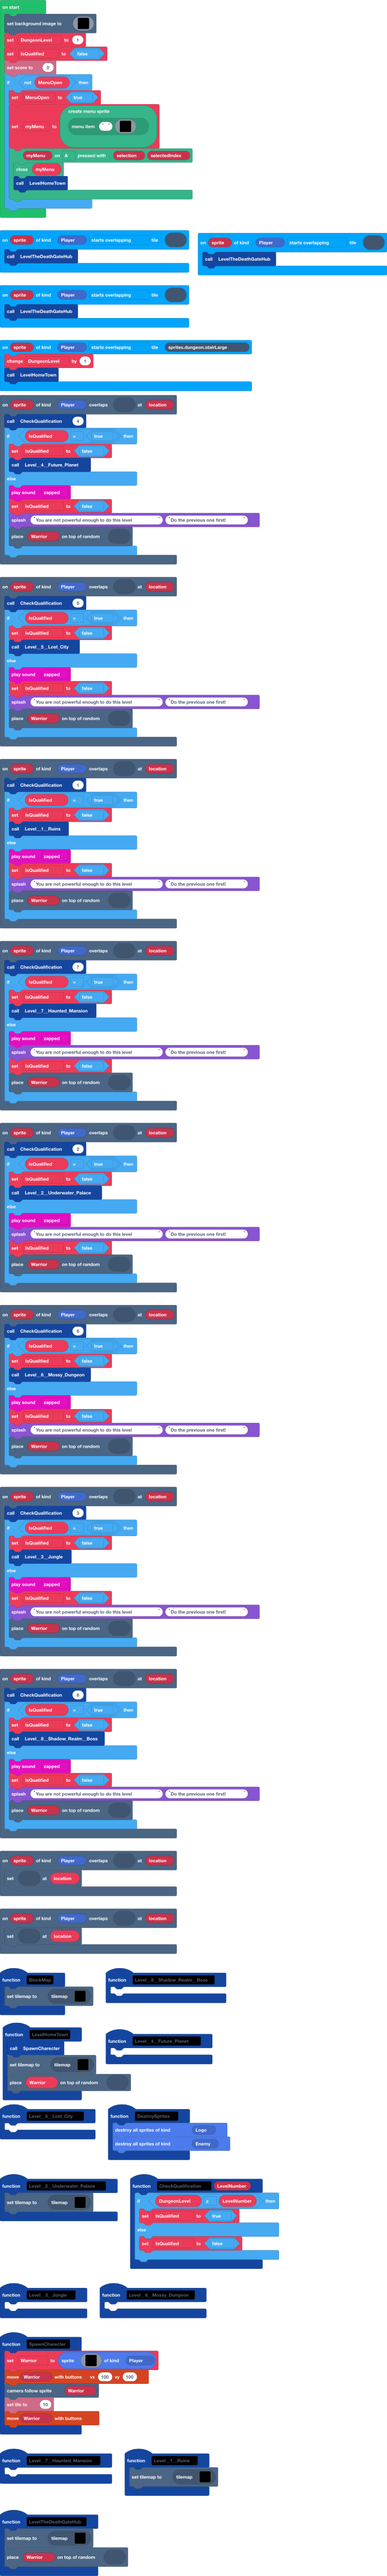
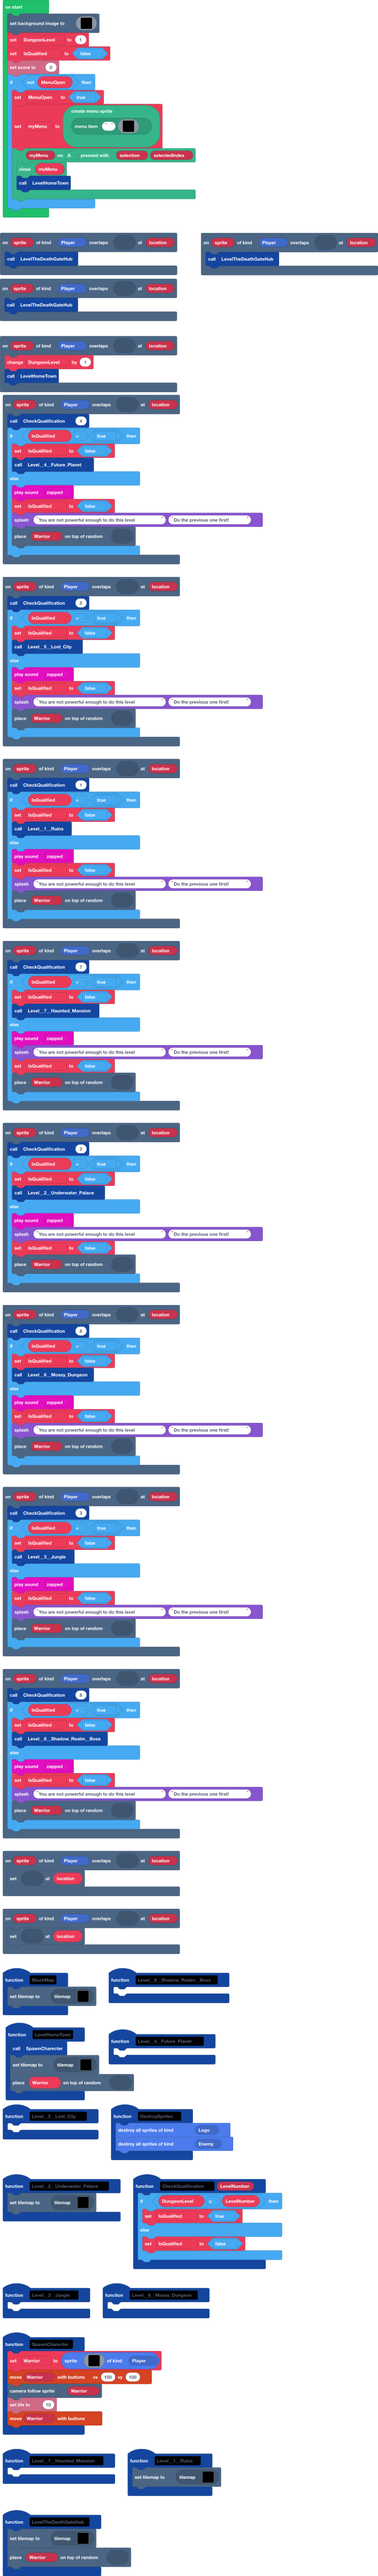
Update main.blocks, main.ts, tilemap.g.jres, tilemap.g.ts

diff --git a/tilemap.g.ts b/tilemap.g.ts
@@ -134,6 +134,16 @@ namespace myTiles {
     export const tile66 = image.ofBuffer(hex``);
     //% fixedInstance jres blockIdentity=images._tile
     export const tile67 = image.ofBuffer(hex``);
+    //% fixedInstance jres blockIdentity=images._tile
+    export const tile62 = image.ofBuffer(hex``);
+    //% fixedInstance jres blockIdentity=images._tile
+    export const tile68 = image.ofBuffer(hex``);
+    //% fixedInstance jres blockIdentity=images._tile
+    export const tile69 = image.ofBuffer(hex``);
+    //% fixedInstance jres blockIdentity=images._tile
+    export const tile70 = image.ofBuffer(hex``);
+    //% fixedInstance jres blockIdentity=images._tile
+    export const tile71 = image.ofBuffer(hex``);
 
     helpers._registerFactory("tilemap", function(name: string) {
         switch(helpers.stringTrim(name)) {
@@ -498,25 +508,6 @@ namespace myTiles {
 .........................
 .........................
 `, [myTiles.transparency16,myTiles.tile53,myTiles.tile54], TileScale.Sixteen);
-            case "level8":
[1 lines of base64/hex data omitted]
-. . . . . . . . . . . . . . . . 
-. . . . . . . . . . . . . . . . 
-. . . . . . . . . . . . . . . . 
-. . . . . . . . . . . . . . . . 
-. . . . . . . . . . . . . . . . 
-. . . . . . . . . . . . . . . . 
-. . . . . . . . . . . . . . . . 
-. . . . . . . . . . . . . . . . 
-. . . . . . . . . . . . . . . . 
-. . . . . . . . . . . . . . . . 
-. . . . . . . . . . . . . . . . 
-. . . . . . . . . . . . . . . . 
-. . . . . . . . . . . . . . . . 
-. . . . . . . . . . . . . . . . 
-. . . . . . . . . . . . . . . . 
-. . . . . . . . . . . . . . . . 
-`, [myTiles.transparency16,myTiles.tile13,myTiles.tile14,myTiles.tile15,myTiles.tile16,myTiles.tile17,myTiles.tile18,myTiles.tile19,myTiles.tile20,myTiles.tile21,myTiles.tile22,myTiles.tile23,myTiles.tile24,myTiles.tile25,myTiles.tile26,myTiles.tile27,myTiles.tile28,myTiles.tile29,myTiles.tile30,myTiles.tile53,myTiles.tile54,myTiles.tile52,myTiles.tile58,myTiles.tile59,myTiles.tile60,myTiles.tile61], TileScale.Sixteen);
             case "level1":
[1 lines of base64/hex data omitted]
 . . . . . . . . . . . . . . . . . 
@@ -537,6 +528,25 @@ namespace myTiles {
 . . . . . . . . . . . . . . . . . 
 . . . . . . . . . . . . . . . . . 
 `, [myTiles.transparency16,sprites.castle.tileGrass2,sprites.castle.tileGrass1,myTiles.tile3,myTiles.tile4,myTiles.tile2,sprites.castle.tilePath5,sprites.castle.tileGrass3,myTiles.tile55,myTiles.tile56,myTiles.tile57,sprites.castle.tilePath3,sprites.castle.tilePath1,sprites.castle.tilePath7,sprites.castle.tilePath9,myTiles.tile58,myTiles.tile63,myTiles.tile64,myTiles.tile65,myTiles.tile66,myTiles.tile67], TileScale.Sixteen);
+            case "level8":
[1 lines of base64/hex data omitted]
+. . . . . . . . . . . . . . . . 
+. . . . . . . . . . . . . . . . 
+. . . . . . . . . . . . . . . . 
+. . . . . . . . . . . . . . . . 
+. . . . . . . . . . . . . . . . 
+. . . . . . . . . . . . . . . . 
+. . . . . . . . . . . . . . . . 
+. . . . . . . . . . . . . . . . 
+. . . . . . . . . . . . . . . . 
+. . . . . . . . . . . . . . . . 
+. . . . . . . . . . . . . . . . 
+. . . . . . . . . . . . . . . . 
+. . . . . . . . . . . . . . . . 
+. . . . . . . . . . . . . . . . 
+. . . . . . . . . . . . . . . . 
+. . . . . . . . . . . . . . . . 
+`, [myTiles.transparency16,myTiles.tile13,myTiles.tile14,myTiles.tile15,myTiles.tile16,myTiles.tile17,myTiles.tile18,myTiles.tile19,myTiles.tile20,myTiles.tile21,myTiles.tile22,myTiles.tile23,myTiles.tile24,myTiles.tile25,myTiles.tile26,myTiles.tile27,myTiles.tile28,myTiles.tile29,myTiles.tile30,myTiles.tile53,myTiles.tile54,myTiles.tile52,myTiles.tile58,myTiles.tile59,myTiles.tile60,myTiles.tile61,myTiles.tile62,myTiles.tile68,myTiles.tile69,myTiles.tile70,myTiles.tile71], TileScale.Sixteen);
         }
         return null;
     })
@@ -676,6 +686,16 @@ namespace myTiles {
             case "tile66":return tile66;
             case "myTile44":
             case "tile67":return tile67;
+            case "myTile39":
+            case "tile62":return tile62;
+            case "myTile45":
+            case "tile68":return tile68;
+            case "myTile46":
+            case "tile69":return tile69;
+            case "myTile47":
+            case "tile70":return tile70;
+            case "myTile48":
+            case "tile71":return tile71;
         }
         return null;
     })

diff --git a/main.ts b/main.ts
@@ -6,6 +6,9 @@ enum ActionKind {
 namespace SpriteKind {
     export const Logo = SpriteKind.create()
 }
+scene.onOverlapTile(SpriteKind.Player, assets.tile`myTile1`, function (sprite, location) {
+    LevelTheDeathGateHub()
+})
 scene.onOverlapTile(SpriteKind.Player, assets.tile`myTile6`, function (sprite, location) {
     CheckQualification(4)
     if (IsQualified == true) {
@@ -17,9 +20,6 @@ scene.onOverlapTile(SpriteKind.Player, assets.tile`myTile6`, function (sprite, l
         game.splash("You are not powerful enough to do this level", "Do the previous one first!")
         tiles.placeOnRandomTile(Warrior, sprites.dungeon.floorLight0)
     }
-})
-events.tileEvent(SpriteKind.Player, assets.tile`myTile1`, events.TileEvent.StartOverlapping, function (sprite) {
-    LevelTheDeathGateHub()
 })
 scene.onOverlapTile(SpriteKind.Player, assets.tile`myTile7`, function (sprite, location) {
     CheckQualification(5)
@@ -90,6 +90,9 @@ function DestroySprites () {
     sprites.destroyAllSpritesOfKind(SpriteKind.Logo)
     sprites.destroyAllSpritesOfKind(SpriteKind.Enemy)
 }
+scene.onOverlapTile(SpriteKind.Player, assets.tile`myTile37`, function (sprite, location) {
+    LevelTheDeathGateHub()
+})
 function Level__2__Underwater_Palace () {
     tiles.setCurrentTilemap(tilemap`DungeonLevel2`)
 }
@@ -115,7 +118,7 @@ scene.onOverlapTile(SpriteKind.Player, assets.tile`myTile8`, function (sprite, l
 function Level__3__Jungle () {
 	
 }
-events.tileEvent(SpriteKind.Player, assets.tile`myTile2`, events.TileEvent.StartOverlapping, function (sprite) {
+scene.onOverlapTile(SpriteKind.Player, assets.tile`myTile2`, function (sprite, location) {
     LevelTheDeathGateHub()
 })
 scene.onOverlapTile(SpriteKind.Player, assets.tile`myTile5`, function (sprite, location) {
@@ -178,15 +181,12 @@ scene.onOverlapTile(SpriteKind.Player, assets.tile`RuinsTile - 2 - Horizontal - 
 scene.onOverlapTile(SpriteKind.Player, assets.tile`RuinsTile - 2 - Horizontal - Breakable`, function (sprite, location) {
     tiles.setTileAt(location, assets.tile`myTile16`)
 })
-events.tileEvent(SpriteKind.Player, sprites.dungeon.stairLarge, events.TileEvent.StartOverlapping, function (sprite) {
-    DungeonLevel += 1
-    LevelHomeTown()
-})
 function Level__1__Ruins () {
     tiles.setCurrentTilemap(tilemap`level10`)
 }
-events.tileEvent(SpriteKind.Player, assets.tile`myTile37`, events.TileEvent.StartOverlapping, function (sprite) {
-    LevelTheDeathGateHub()
+scene.onOverlapTile(SpriteKind.Player, assets.tile`myTile35`, function (sprite, location) {
+    DungeonLevel += 1
+    LevelHomeTown()
 })
 function LevelTheDeathGateHub () {
     tiles.setCurrentTilemap(tilemap`DeathGateHub`)
